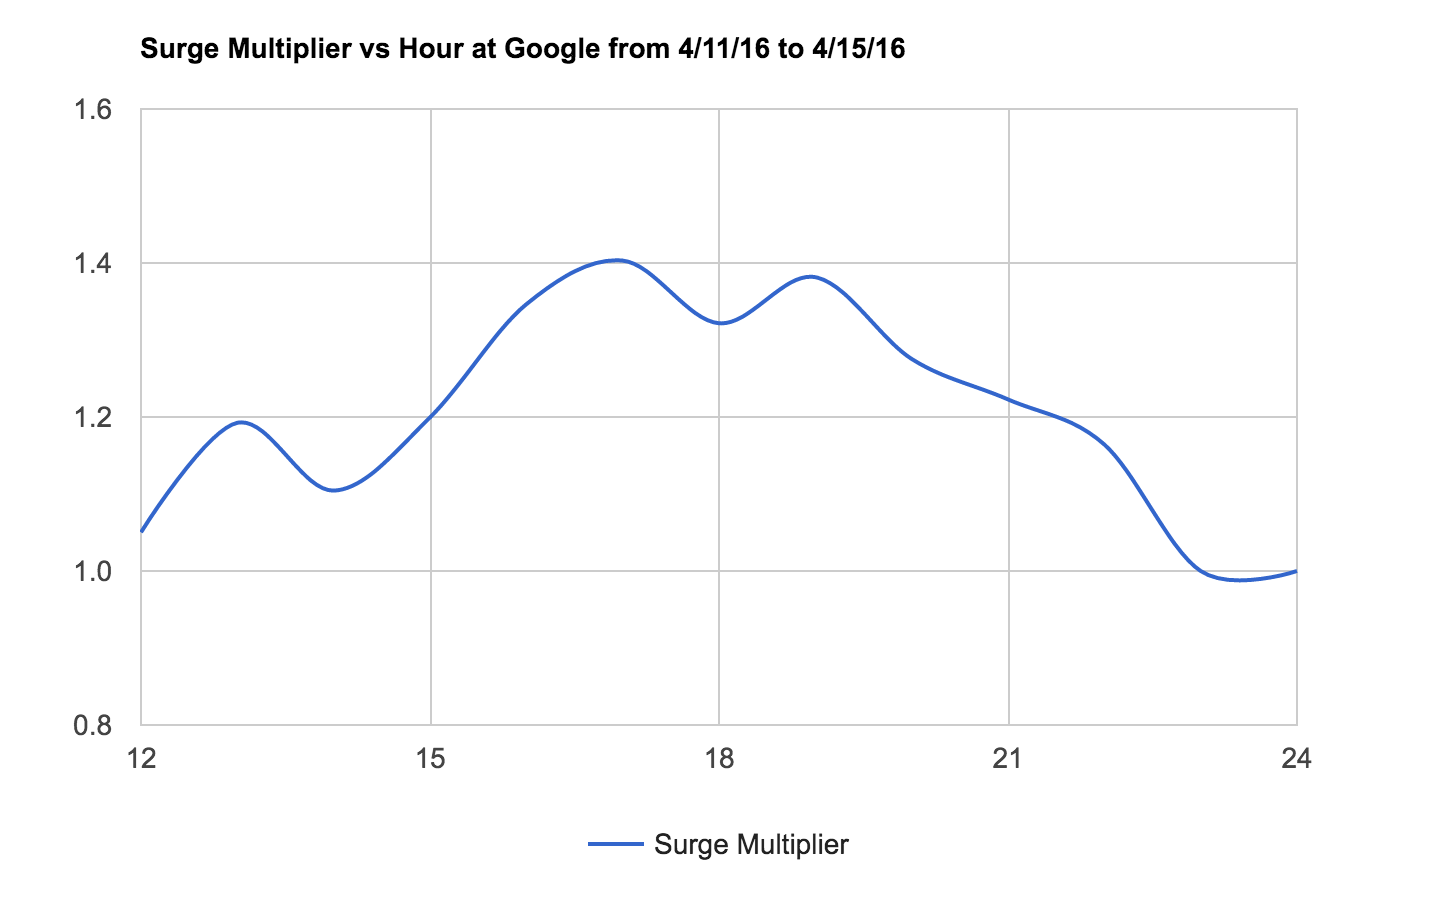
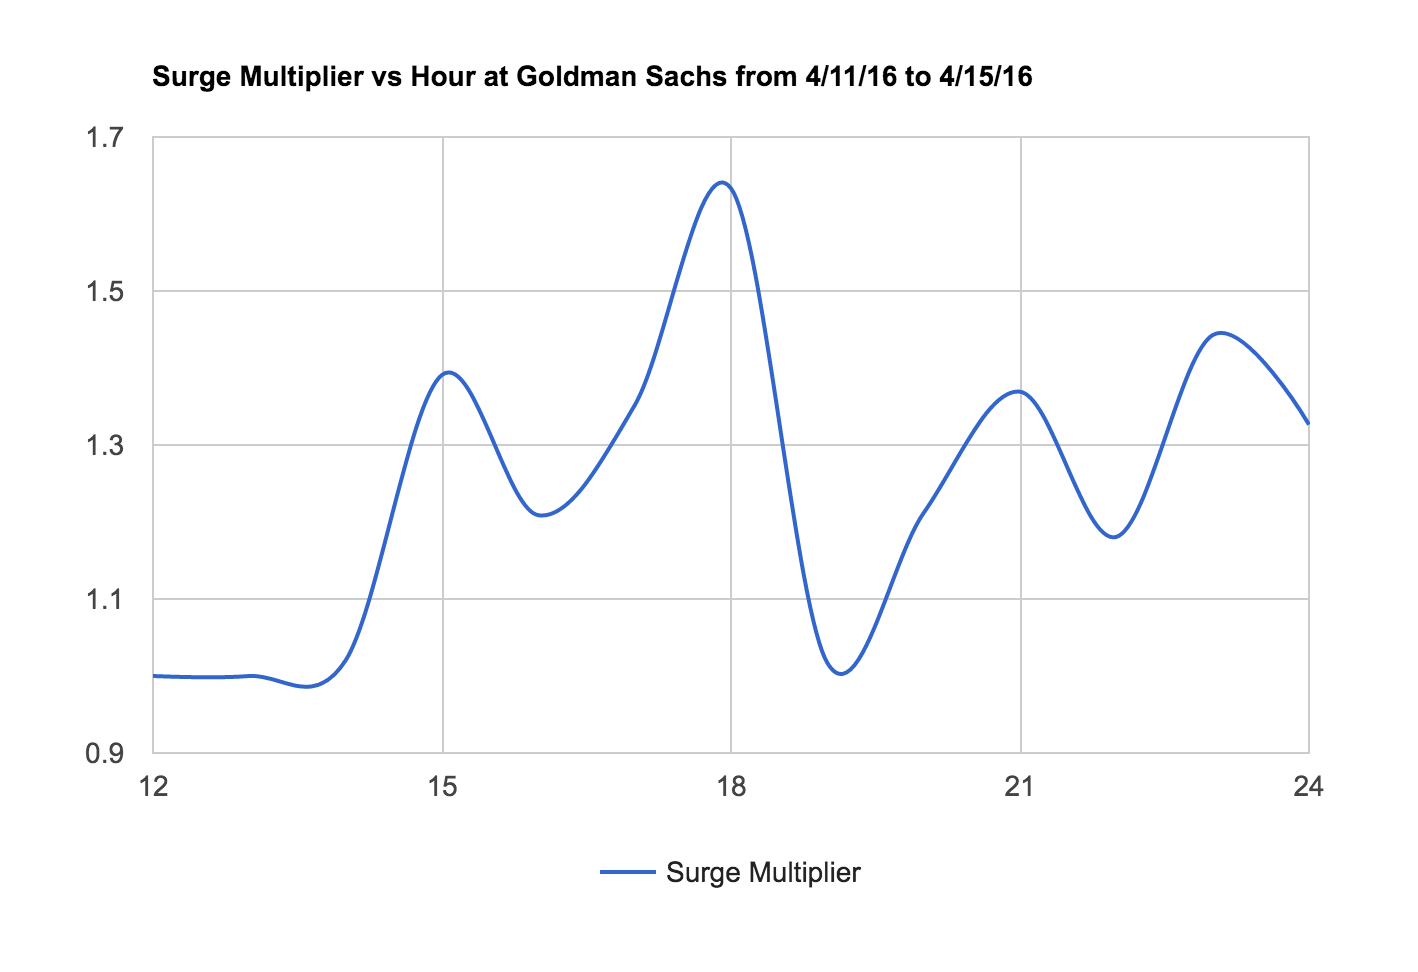
fix bugs

diff --git a/UberSurge/index.html b/UberSurge/index.html
@@ -11,19 +11,19 @@
     function drawChart() {
         var data = google.visualization.arrayToDataTable([
             ['Hour', 'Surge Multiplier'],
-            [12.0,  1.05022123894],
-[13.0,  1.19246119734],
-[14.0,  1.10440528634],
-[15.0,  1.19943074004],
-[16.0,  1.34641350211],
-[17.0,  1.40309734513],
-[18.0,  1.32170542636],
-[19.0,  1.38155555556],
-[20.0,  1.27538802661],
-[21.0,  1.22283813747],
-[22.0,  1.16430155211],
-[23.0,  1.0],
-[24.0,  1.0]
+            [12.0,  1.0],
+[13.0,  1.0],
+[14.0,  1.03153153153],
+[15.0,  1.27837837838],
+[16.0,  1.41022222222],
+[17.0,  1.27169811321],
+[18.0,  1.3],
+[19.0,  1.20679270508],
+[20.0,  1.31875],
+[21.0,  1.17822222222],
+[22.0,  1.24185022026],
+[23.0,  1.33964757709],
+[24.0,  1.14203539823]
         ]);
 
         var options = {

diff --git a/UberSurge/plot.py b/UberSurge/plot.py
@@ -10,7 +10,7 @@ with open('../data/output.csv', 'rb') as csvfile:
     spamreader = csv.reader(csvfile, delimiter=',')
     # print spamreader
     for row in spamreader:
-    	if row[4] == "Goldman Sachs":
+    	if row[4] == "Google":
     		gs.append([row[0], row[1]])
 
 gs = np.asmatrix(gs)
@@ -18,13 +18,14 @@ gs = np.asmatrix(gs)
 for item in gs:
 	item[0,0] = datetime.datetime.fromtimestamp(float(item[0,0])).strftime("%H")
 
-idx = range(12,25)
-count = np.zeros(13)
-total_surge = np.zeros(13)
+idx = range(1,25)
+print idx
+count = np.zeros(24)
+total_surge = np.zeros(24)
 
 for item in gs:
-	count[int(item[0,0])-13] += 1
-	total_surge[int(item[0,0])-13] += float(item[0,1])
+	count[int(item[0,0])] += 1
+	total_surge[int(item[0,0])] += float(item[0,1])
 
 avg_surge = total_surge/count
 # for consistency test
@@ -32,7 +33,7 @@ avg_surge[np.isnan(avg_surge)] = np.random.uniform(1,1.5)
 # plt.plot(idx, avg_surge)
 # plt.show()
 
-result=np.zeros((13,2))
+result=np.zeros((24,2))
 result[:,0]=idx
 result[:,1]=avg_surge
 
@@ -42,8 +43,8 @@ with open('data.tsv', 'w') as tsvfile:
     writer.writerow(["time", "surge"])
     for record in result:
         data = []
-        data.append("[%s,"%record[0])
-        data.append("%s],"%record[1])
-        # "[%s,%s],"%(record[0], record[1])
-        print data
-        writer.writerow(data)
+        if record[0]>= 12:
+            data.append("[%s,"%record[0])
+            data.append("%s],"%record[1])
+            # "[%s,%s],"%(record[0], record[1])
+            writer.writerow(data)
